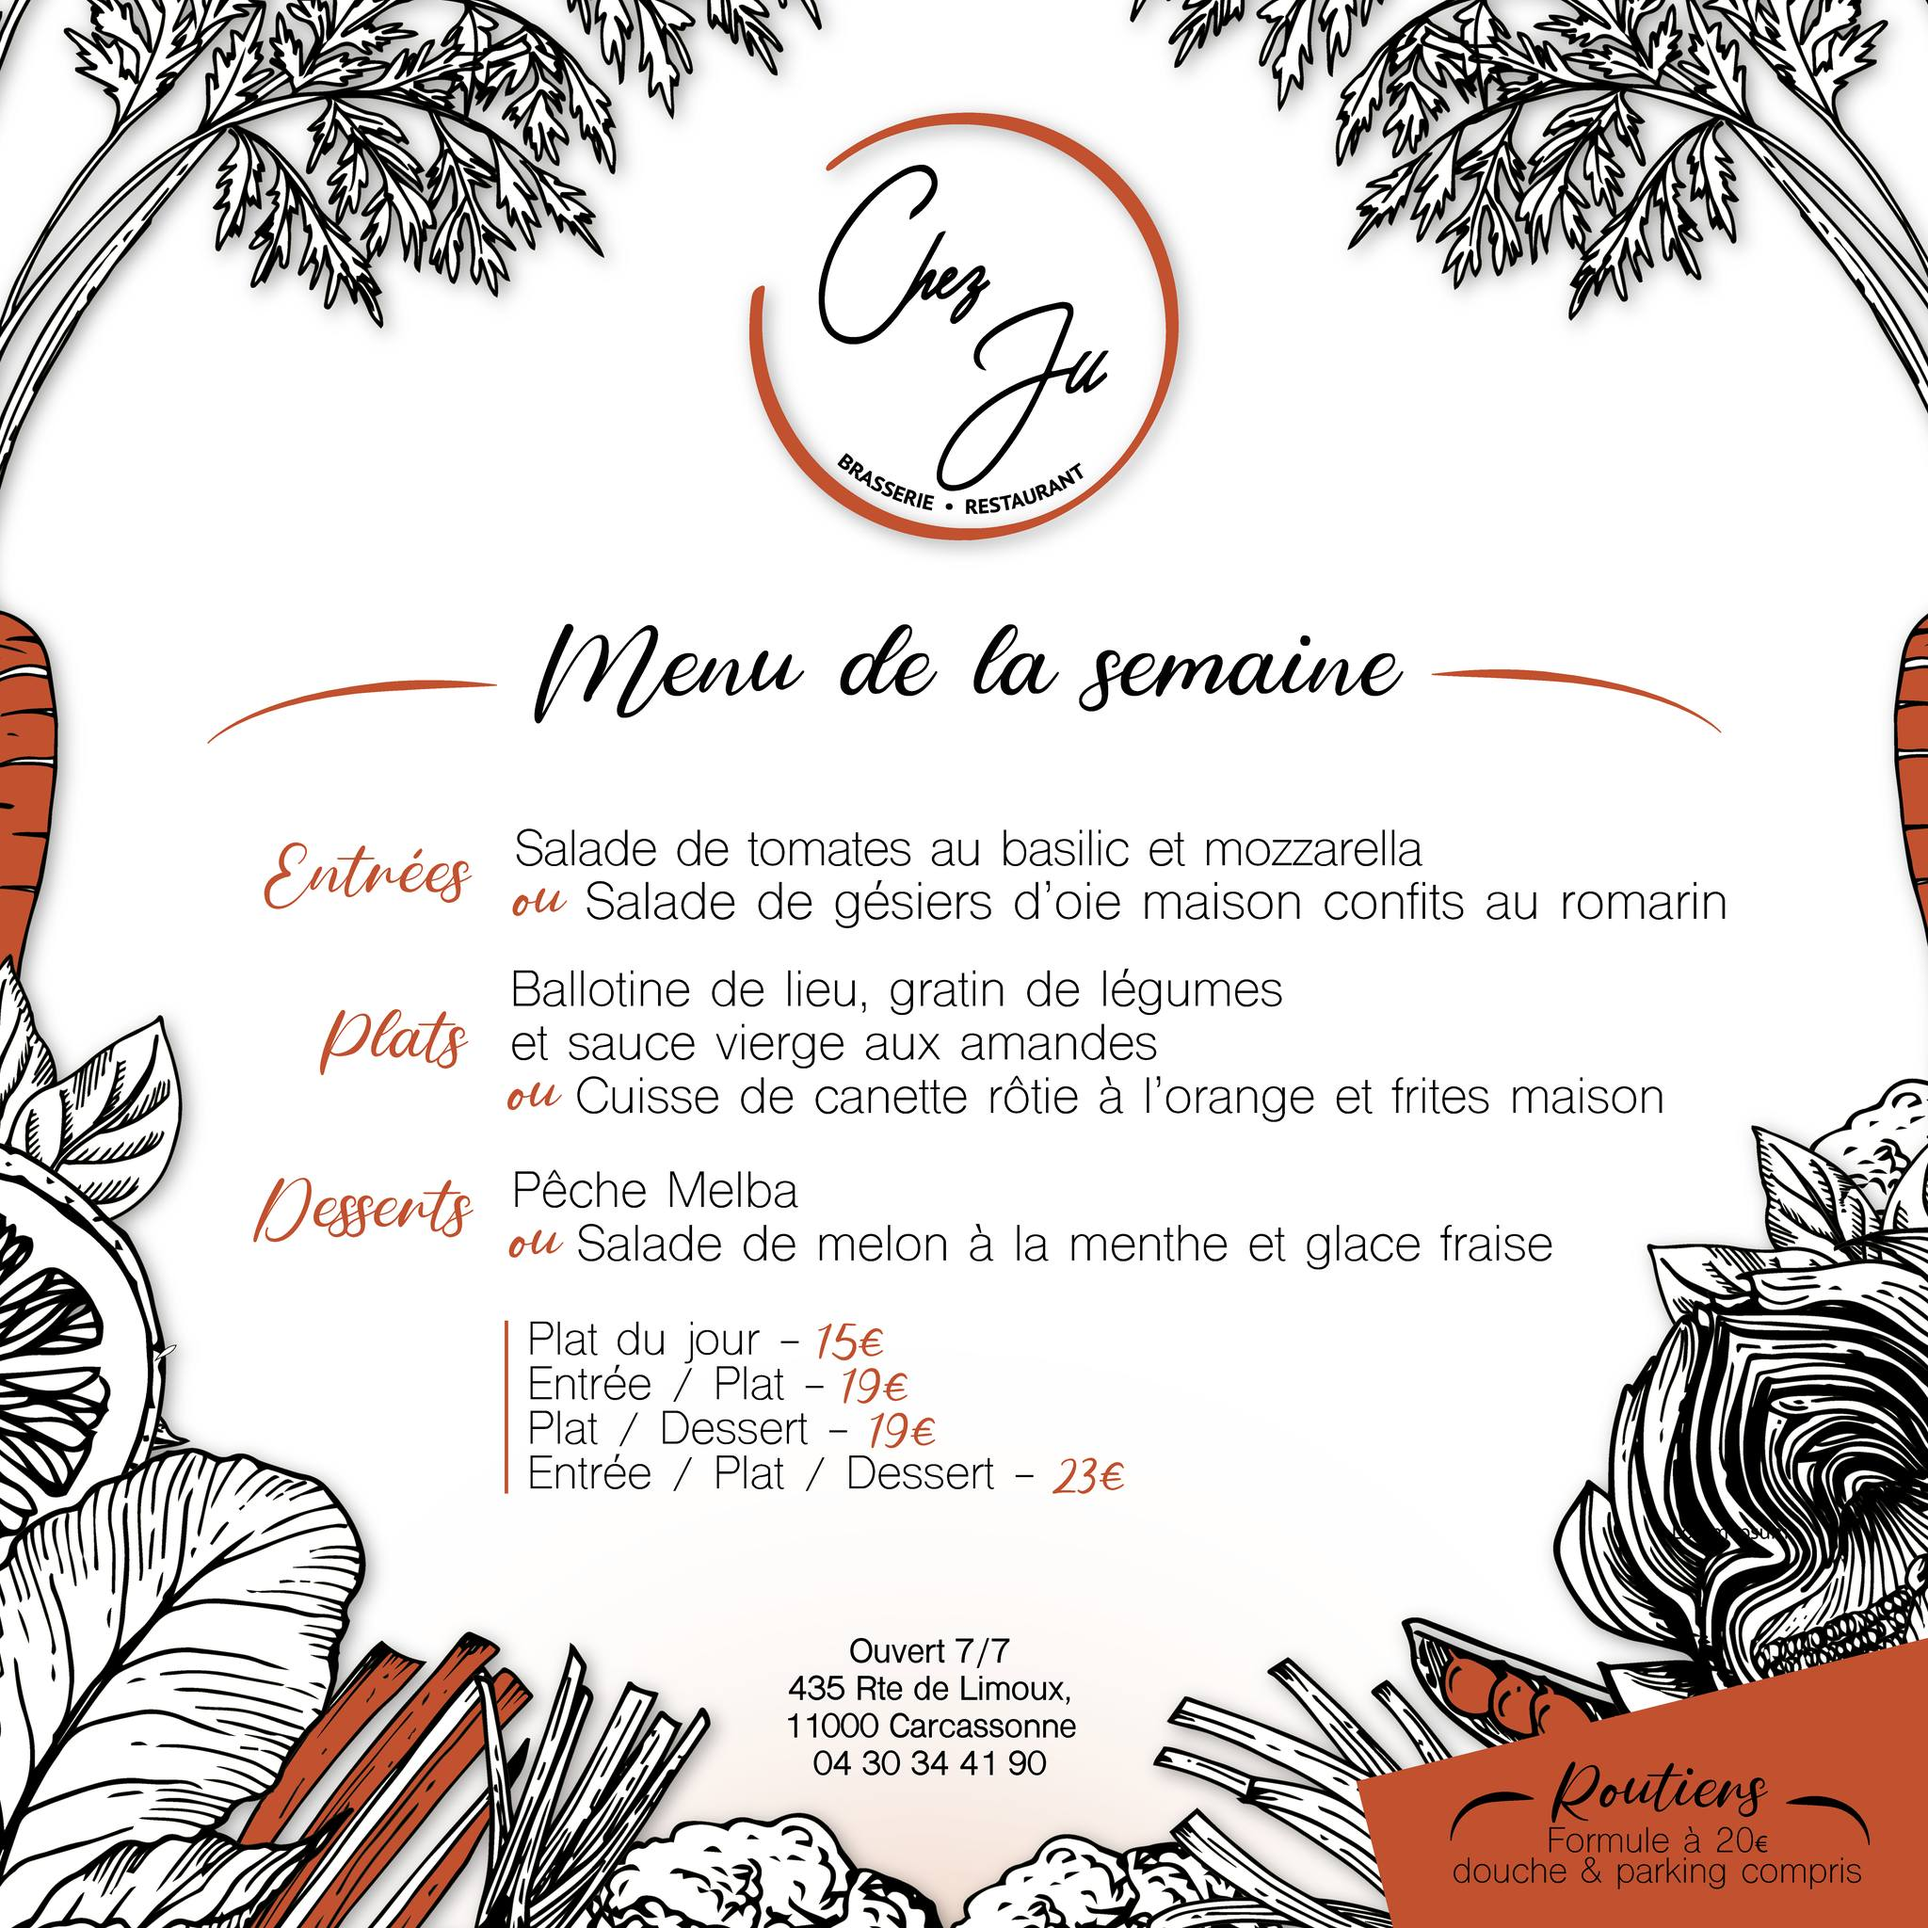
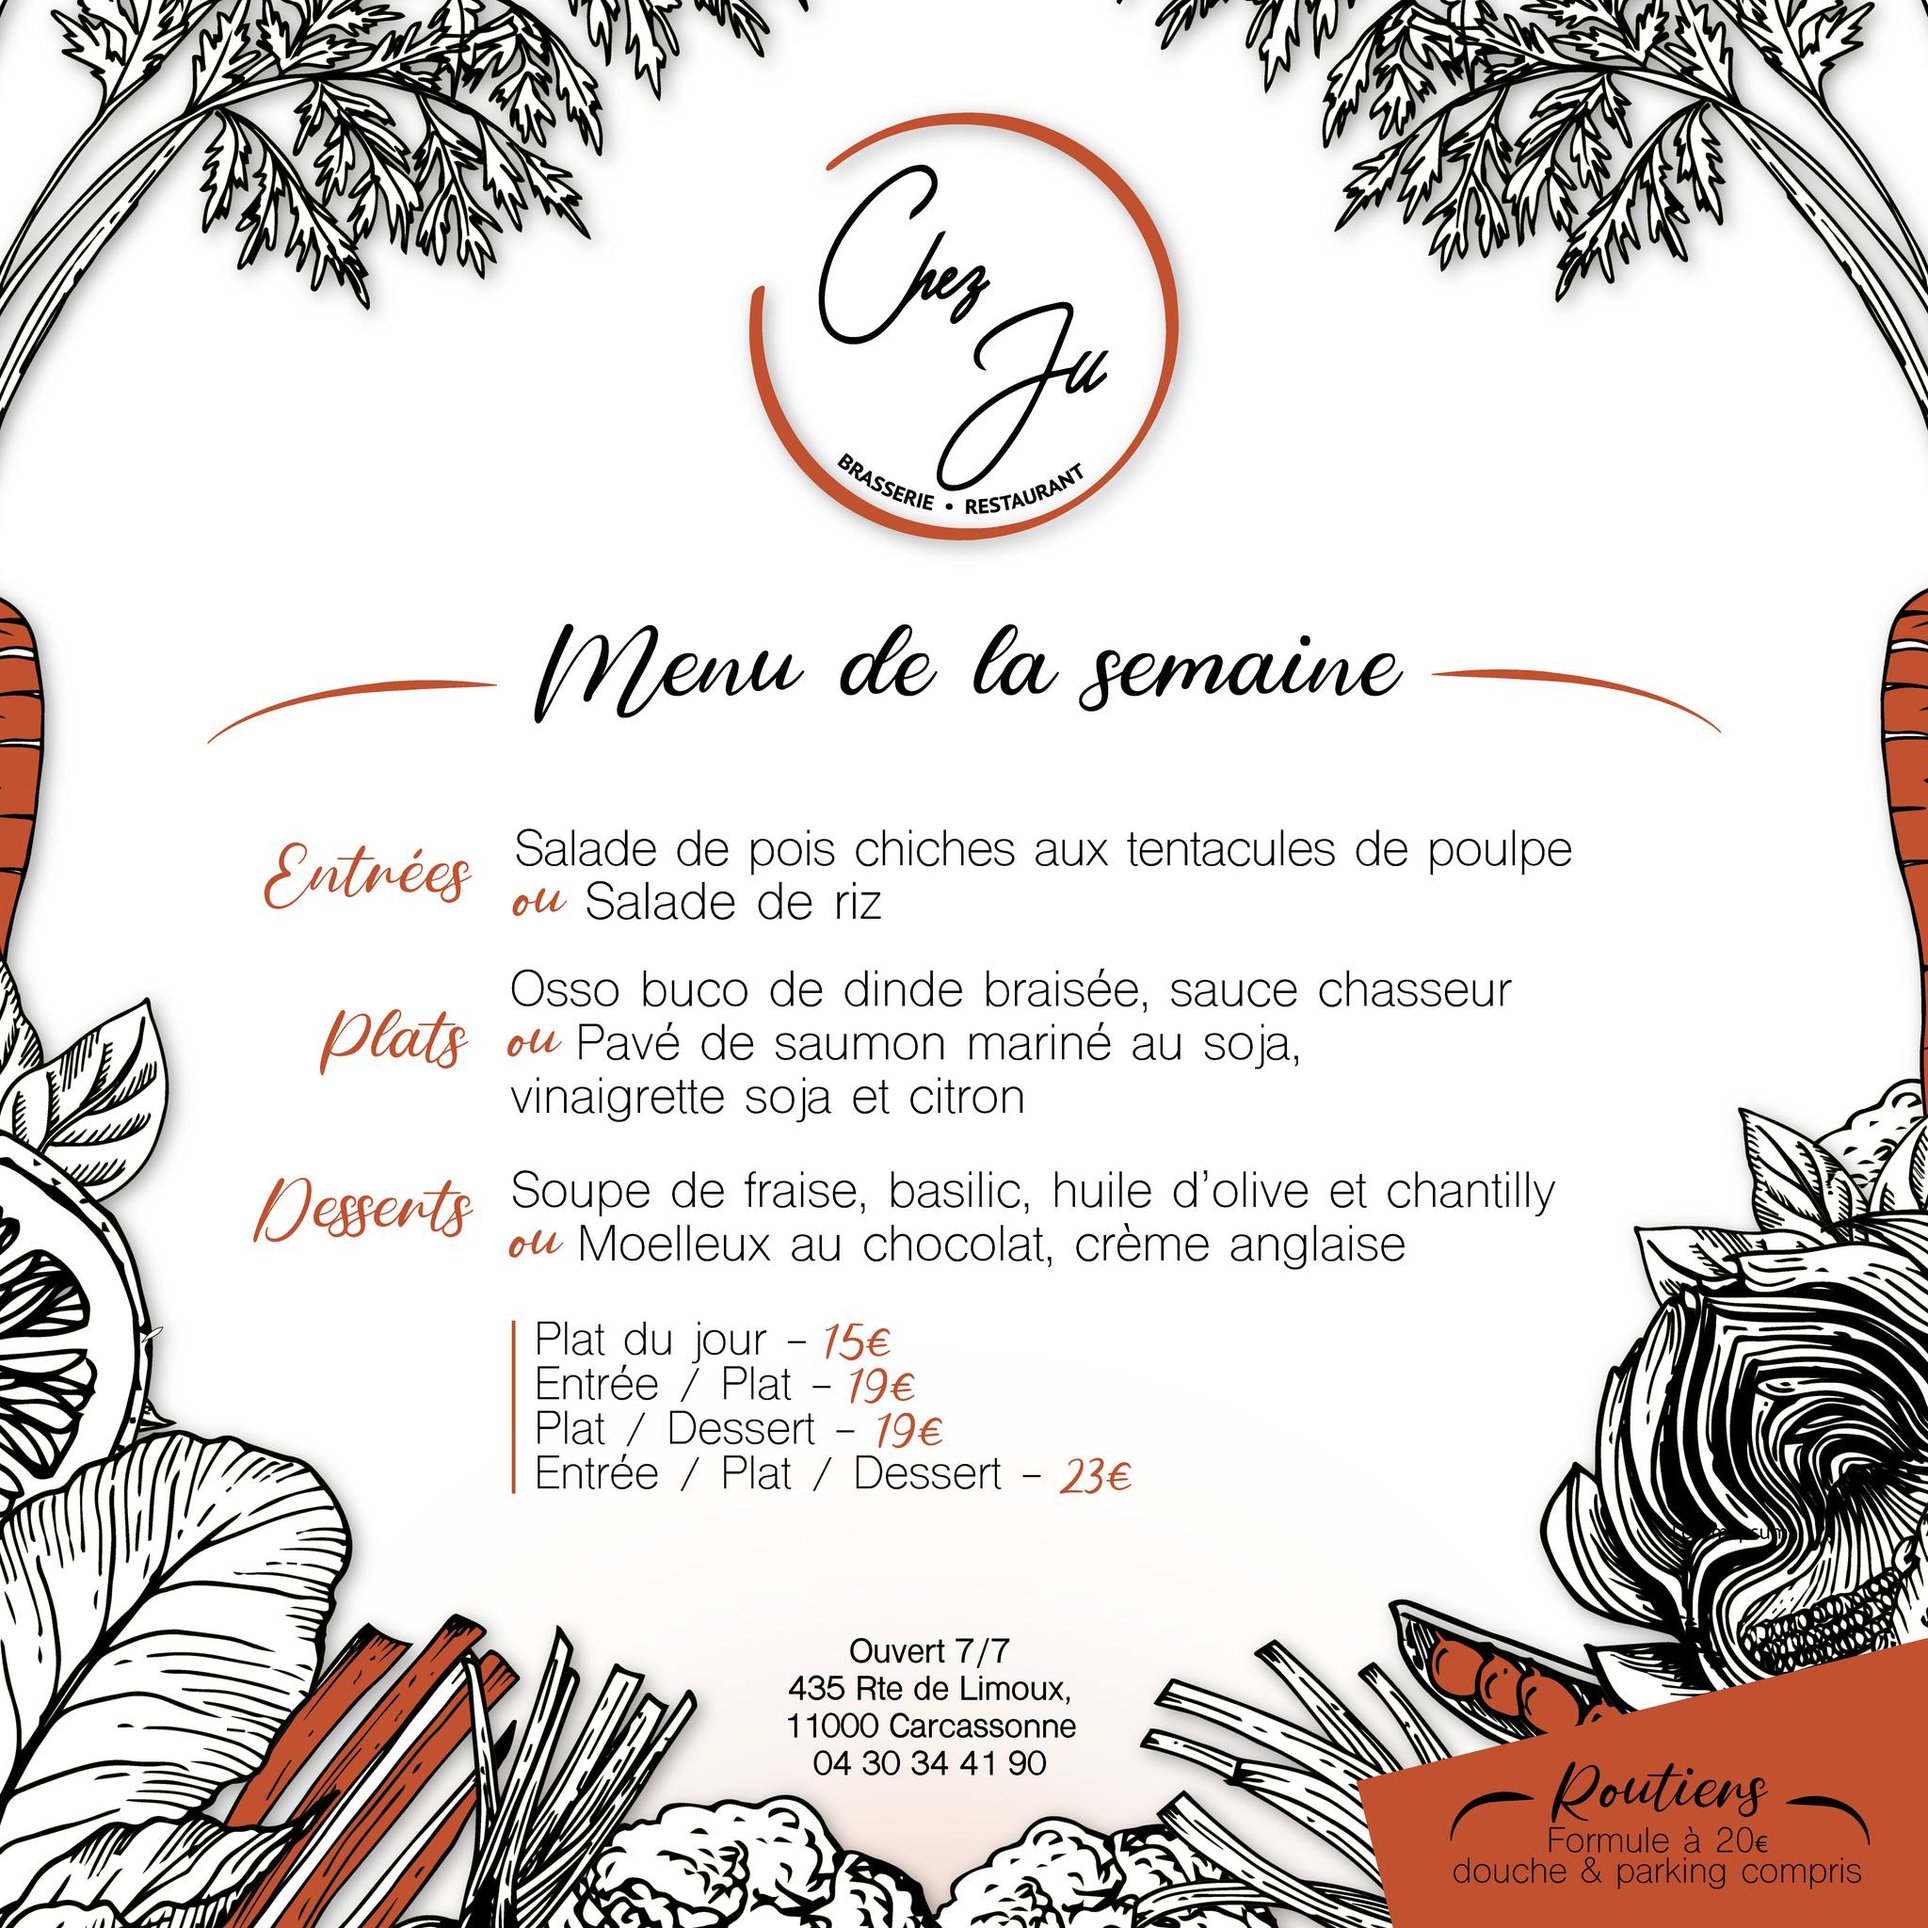
update: replace Instagram post for August 11-15 with new image, URL, and description

diff --git a/components/home/InstagramFeed.vue b/components/home/InstagramFeed.vue
@@ -112,9 +112,9 @@ const instagramPosts = ref<InstagramPost[]>([
   {
     id: '2',
     imageUrl: '/images/instagram/menu_semaine.jpg',
-    postUrl: 'https://www.instagram.com/p/DM7WJy9B5hi/',
+    postUrl: 'https://www.instagram.com/p/DNNX0V-JPeW/',
     title: 'Menu de la semaine',
-    description: 'Du lundi 4 août au vendredi 8 août'
+    description: 'Du lundi 11 au vendredi 15 août'
   },
   {
     id: '3',
